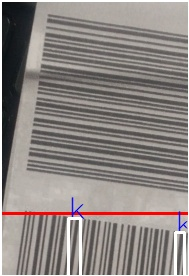
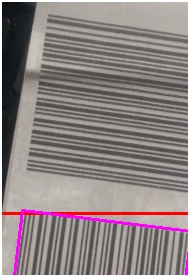
--all

Changed region(s): [[0.0529, 0.6957, 1.0, 1.0]]

diff --git a/rec.py b/rec.py
@@ -75,6 +75,28 @@ for array_big in cnts_big:
 			get_h1=get_h1+get_y1 
 			get_y1=0
 		get_im_ar = image[get_y1:get_y1+get_h1, get_x1:get_x1+get_w1]
+
+		rect = cv2.minAreaRect(c)
+		box = cv2.boxPoints(rect)
+		box = np.int0(box)
+		cv2.drawContours(image,[box],0,(255,0,255),2)
+
+		coords = np.column_stack(np.where(th3 > 0))
+		#angle = cv2.minAreaRect(coords)[-1]
+		angle = cv2.minAreaRect(c)[-1]
+		if angle < -45:
+			angle = (90 + angle)
+
+		else:
+			angle = -angle
+		print('angle',angle)
+
+		(h, w) = closed.shape[:2]
+		center = (w // 2, h // 2)
+		M = cv2.getRotationMatrix2D(center, angle, 1.0)
+		rotated = cv2.warpAffine(image, M, (w, h),flags=cv2.INTER_CUBIC, borderMode=cv2.BORDER_REPLICATE)
+		cv2.imwrite("info.jpg", rotated)
+
 		cv2.imwrite("info/"+str(b) +".jpg", get_im_ar)
 		
 		gray_info = cv2.cvtColor(get_im_ar, cv2.COLOR_BGR2GRAY)

diff --git a/README.md b/README.md
@@ -1,1 +1,6 @@
 # text_recognatio
+
+поворот всей бирки и распознавание
+
+следующая версия поворот каждой буквы для распознавания
+
